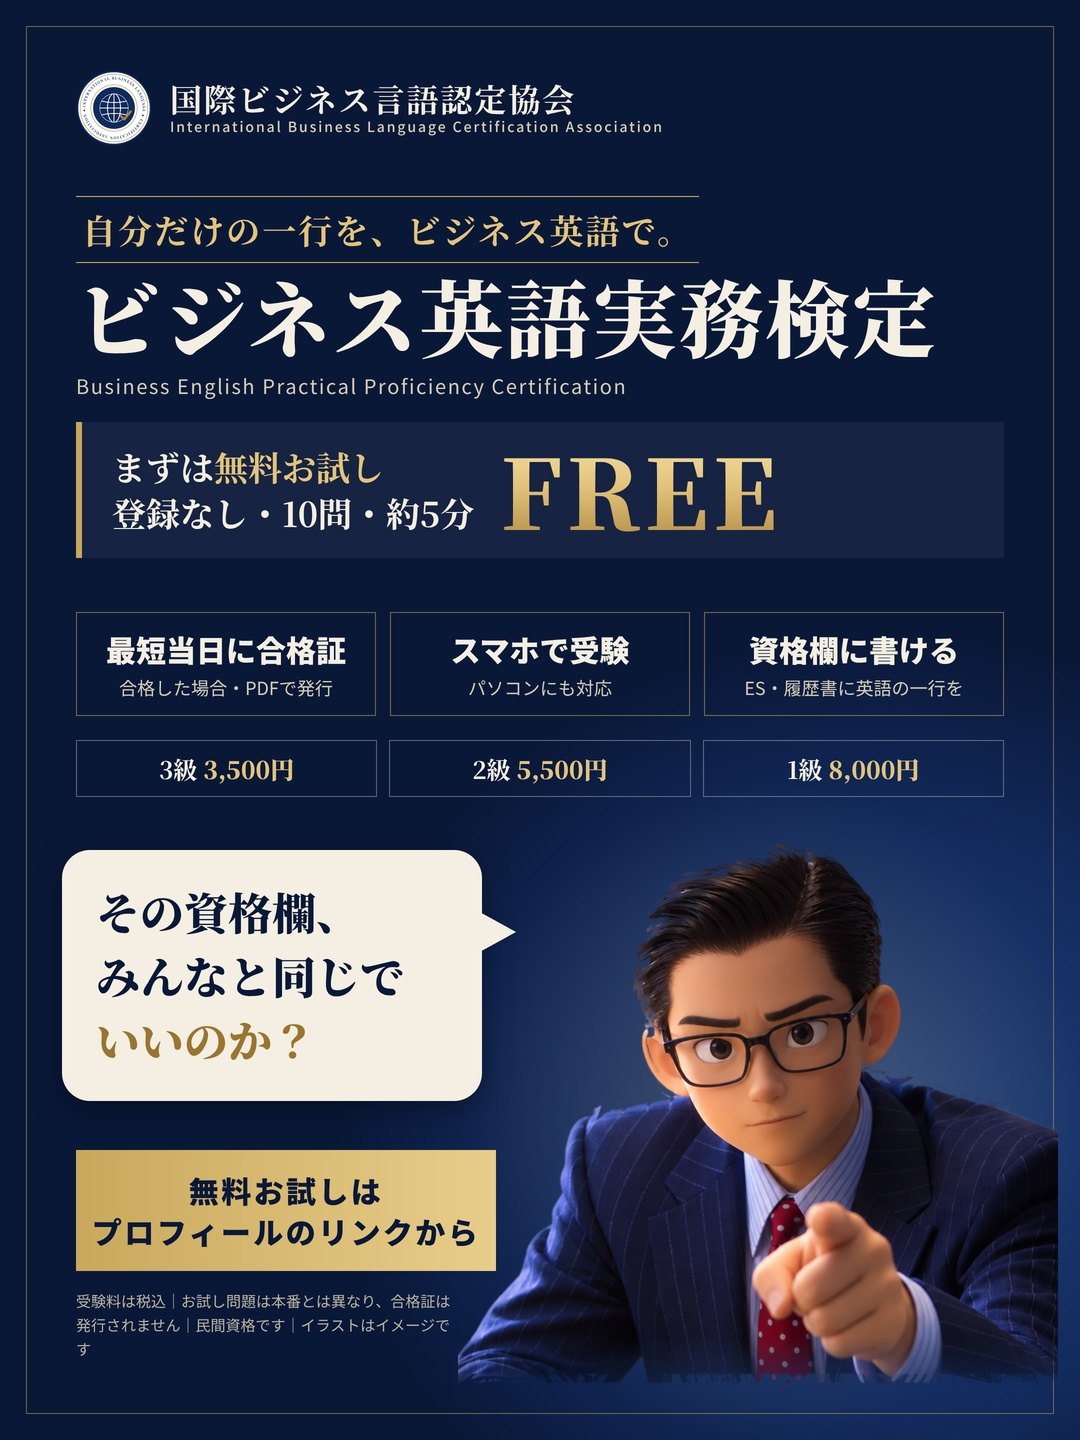
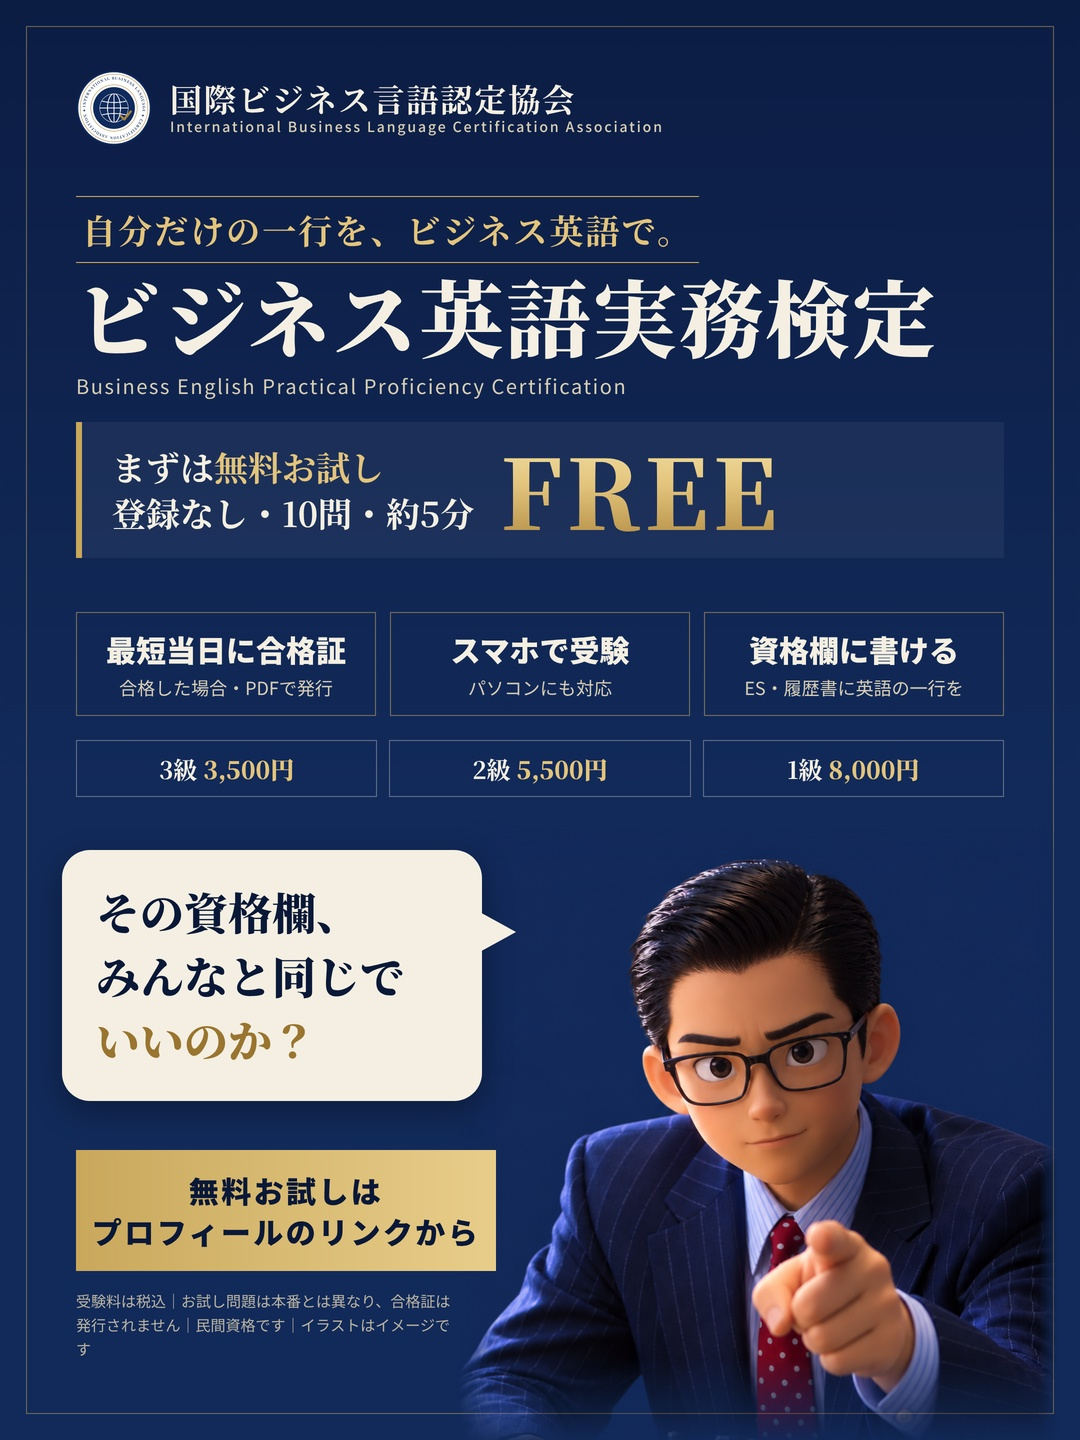
ケン指さし右下版：紺背景の絵で切り抜きなしに
Claude-Session: https://claude.ai/code/session_014p5jL2LKN9C3tYKst8GaL5

diff --git a/content/posters/ig_pin_point_br.html b/content/posters/ig_pin_point_br.html
@@ -1,7 +1,7 @@
 <!doctype html><html><head><meta charset="utf-8"><style>
 *{margin:0;padding:0;box-sizing:border-box}
 html,body{width:1080px;height:1440px;overflow:hidden}
-body{font-family:"Noto Sans CJK JP",sans-serif;color:#f4efe2;-webkit-font-smoothing:antialiased;background:radial-gradient(60% 40% at 82% 78%,#24447f 0%,#132b5e 50%,#0a1838 85%);position:relative}
+body{font-family:"Noto Sans CJK JP",sans-serif;color:#f4efe2;-webkit-font-smoothing:antialiased;background:linear-gradient(180deg,#0c1d44 0%,#122a5a 55%,#122a5a 100%);position:relative}
 .frame{position:absolute;left:26px;top:26px;right:26px;bottom:26px;border:1.5px solid rgba(201,168,92,.5)}
 .brand{position:absolute;left:76px;top:70px;display:flex;align-items:center;gap:18px}
 .brand img{width:76px;height:76px}
@@ -41,7 +41,7 @@ body{font-family:"Noto Sans CJK JP",sans-serif;color:#f4efe2;-webkit-font-smooth
  <div><b>資格欄に書ける</b><small>ES・履歴書に英語の一行を</small></div>
 </div>
 <div class="price"><div>3級 <b>3,500円</b></div><div>2級 <b>5,500円</b></div><div>1級 <b>8,000円</b></div></div>
-<div class="glow"></div><img class="ken" src="ken_point_cut3.png">
+<img class="ken" src="ken_point_navy.png">
 <div class="bubble">その資格欄、<br>みんなと同じで<br><em>いいのか？</em></div>
 <div class="cta">無料お試しは<br>プロフィールのリンクから</div>
 <div class="note">受験料は税込｜お試し問題は本番とは異なり、合格証は発行されません｜民間資格です｜イラストはイメージです</div>
